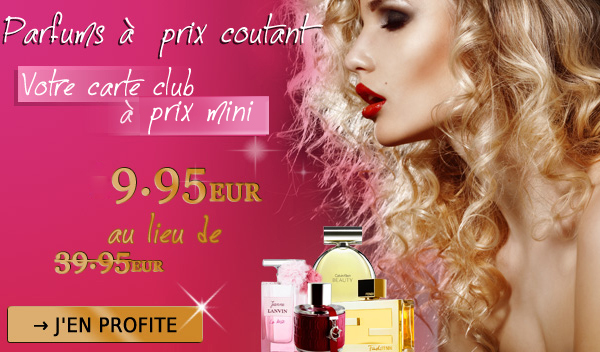
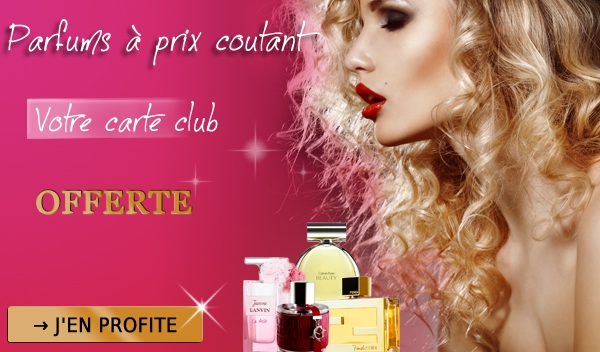
new free card

Changed region(s): [[0.0, 0.0312, 0.54, 0.4062], [0.39, 0.625, 0.69, 1.0], [0.06, 0.4688, 0.45, 0.7812]]

diff --git a/stylesheet.css b/stylesheet.css
@@ -1654,3 +1654,7 @@ padding-bottom: 5px;
 .zoom .vam span a{ 
 	font-size:1.1em;
 }
+
+.pink{
+	color:#E519A8;
+	}

diff --git a/includes/languages/french.php b/includes/languages/french.php
@@ -436,9 +436,11 @@ define('SPECIAL_DISCOUNT', get_promo('text').'<br />(hors carte)');
 define('SPECIAL_DISCOUNT_PAYPAL', get_promo('text').' (hors carte)');
 
 define('TEXT_MAIN_MEMBER', 'Pour devenir membre de '.STORE_NAME.' et b&eacute;n&eacute;ficier de tous les avantages du Club, il vous suffit de choisir parmi nos formules d\'adh&eacute;sion :');
-define('MEMBER_CARD1', '<span class="bigger">- <span class="blue bold">Membre SAPHIR</span> : Carte membre (validit&eacute; '.$cards->list['card1']['duration'].' mois) : <span class="red bold">'.$currencies->format($cards->list['card1']['price']).'</span>  <strike>39.95EUR</strike></span>');
+define('MEMBER_CARD1', '<span class="bigger">- <span class="blue bold">Membre SAPHIR</span> : Carte membre (validit&eacute; '.$cards->list['card1']['duration'].' mois) : <span class="red bold">'.$currencies->format($cards->list['card1']['price']).'</span></span>');
 define('MEMBER_CARD2', '<span class="bigger">- <span class="red">Membre RUBIS</span> : Carte membre '.$cards->list['card2']['duration'].' mois : <span class="red bold">'.$currencies->format($cards->list['card2']['price']).'</span> (<span class="bold">-50% d\'&eacute;conomie</span>)</span>');
 define('MEMBER_CARD3', '<span class="bigger">- <span class="gold bold">Membre GOLD</span> : Carte membre (validit&eacute; '.$cards->list['card3']['duration'].' mois) : <span class="red bold">'.$currencies->format($cards->list['card3']['price']).'</span> <span class="bold small">(soit '.$currencies->format(floor($cards->list['card3']['price'] / 12)).' par mois)</span></span>');
+define('MEMBER_CARD4', '<span class="bigger">- <span class="pink bold">Membre JUNIOR</span> : Carte membre (validit&eacute; '.$cards->list['card4']['duration'].' mois) : <span class="red bold">Offerte</span> </span><span class="bold small">(Offre valable jusqu\'au 14 juillet)</span>');
+
 define('MEMBER_CARD31', '<span class="bold small">(-80% d\'&eacute;conomie)</span>');
 define('TEXT_END', '<center><span class="bold">Aucune obligation d\'achat</span><center>');
 

diff --git a/index.php b/index.php
@@ -378,7 +378,16 @@ require('fonctioncompdb.php');
 		<br><br>
 		
         <?php
-            $rs = tep_db_query('SELECT code from cards where enabled = 1');
+	$rs = tep_db_query('SELECT code from cards where enabled = 1 and code like \'card4\'');
+            while ($data = tep_db_fetch_array($rs)) {
+                echo '<div>'.constant('MEMBER_'.strtoupper($data['code'])).'<br /><br />
+                <img align="middle" src="'.DIR_WS_IMAGES.$data['code'].'.gif" alt="'.$data['code'].'" valign="absmiddle"> <a href="'.tep_href_link("members.php","action=buy_card&products_id=".$data['code']).'">'.tep_image_button('button_add_to_cart1.gif').'</a>';
+                if ($data['code'] == 'card3')
+                  echo '<br><br>&nbsp;&nbsp;&nbsp;&nbsp;&nbsp;&nbsp;&nbsp;&nbsp;&nbsp;&nbsp;&nbsp;&nbsp;&nbsp;&nbsp;&nbsp;&nbsp;'.MEMBER_CARD31 .'<br />';
+                  
+                  echo '</div><br />';
+            }
+            $rs = tep_db_query('SELECT code from cards where enabled = 1 and code not like \'card4\'');
             while ($data = tep_db_fetch_array($rs)) {
                 echo '<div>'.constant('MEMBER_'.strtoupper($data['code'])).'<br /><br />
                 <img align="middle" src="'.DIR_WS_IMAGES.$data['code'].'.gif" alt="'.$data['code'].'" valign="absmiddle"> <a href="'.tep_href_link("members.php","action=buy_card&products_id=".$data['code']).'">'.tep_image_button('button_add_to_cart1.gif').'</a>';

diff --git a/product_info.php b/product_info.php
@@ -137,7 +137,7 @@ function popupWindow(url) {
 							<?php echo tep_draw_prod_pic_top();?>
 
 							<script language="javascript"><!--
-							document.write('<?php echo '<a href="javascript:popupWindow(\\\'' . tep_href_link(FILENAME_POPUP_IMAGE, 'pID=' . $product_info['products_id']) . '\\\')">' . tep_image(DIR_WS_PWS_IMAGE . $product_info['products_image'], addslashes($product_info['products_name']), SMALL_IMAGE_WIDTH, SMALL_IMAGE_HEIGHT, ' style="margin:0px 0px 0px 0px;"') . ''; ?>');
+							document.write('<?php echo '<a href="http://www.parfumwholesale.com/images/'.$product_info['products_image'].'" rel="lightbox">' . tep_image(DIR_WS_PWS_IMAGE . $product_info['products_image'], addslashes($product_info['products_name']), SMALL_IMAGE_WIDTH, SMALL_IMAGE_HEIGHT, ' style="margin:0px 0px 0px 0px;"') . ''; ?>');
 							//--></script>
 							<noscript>
 							<?php echo '<a href="' . tep_href_link(DIR_WS_PWS_IMAGE . $product_info['products_image']) . '" target="_blank">' . tep_image(DIR_WS_PWS_IMAGE . $product_info['products_image'], $product_info['products_name'], SMALL_IMAGE_WIDTH, SMALL_IMAGE_HEIGHT, ' style="margin:0px 0px 0px 0px;"') . ''; ?>

diff --git a/includes/header.php b/includes/header.php
@@ -62,10 +62,15 @@
 	$width = $check_server == 'fr' ? '25%' : '33%';
 ?>
 <!-- start -->
+<script type="text/javascript" src="includes/modules/lightbox2/js/jquery-1.7.2.min.js"></script>
+<script type="text/javascript" src="includes/modules/lightbox2/js/lightbox.js"></script>
+
 <script type="text/javascript" src="includes/jquery-1.3.2.min.js"></script>
 <script type="text/javascript" src="includes/jquery-ui-1.7.2.min.js"></script>
 <script type="text/javascript" src="includes/animation.js"></script>
 <script type="text/javascript" src="includes/zoom.js"></script>
+<link href="includes/modules/lightbox2/css/lightbox.css" rel="stylesheet" />
+
 <table cellpadding="0" cellspacing="0" border="0" style="width:980px" align="center"> 
 	<tr>
 		<td>

diff --git a/includes/boxes/panel_top_advantage.php b/includes/boxes/panel_top_advantage.php
@@ -48,7 +48,7 @@ type="application/x-shockwave-flash" width="600" height="245"></embed>
   </object>
 </noscript>*/
 
-echo '<a id="picture_sw" href="'.tep_href_link(FILENAME_ADVANTAGES).'">'.tep_image(DIR_WS_IMAGES.'ysl.jpg').'</a>';
+echo '<a id="picture_sw" href="'.tep_href_link(FILENAME_ADVANTAGES).'">'.tep_image(DIR_WS_IMAGES.'ysl_advantage.jpg').'</a>';
 echo '</td></tr><tr><td height="9">'.tep_draw_separator('spacer.gif', '1', '1').'</td></tr></table>';
 /*}
 else echo tep_draw_separator('spacer.gif', '590', '1').'</td></tr></table>';*/
